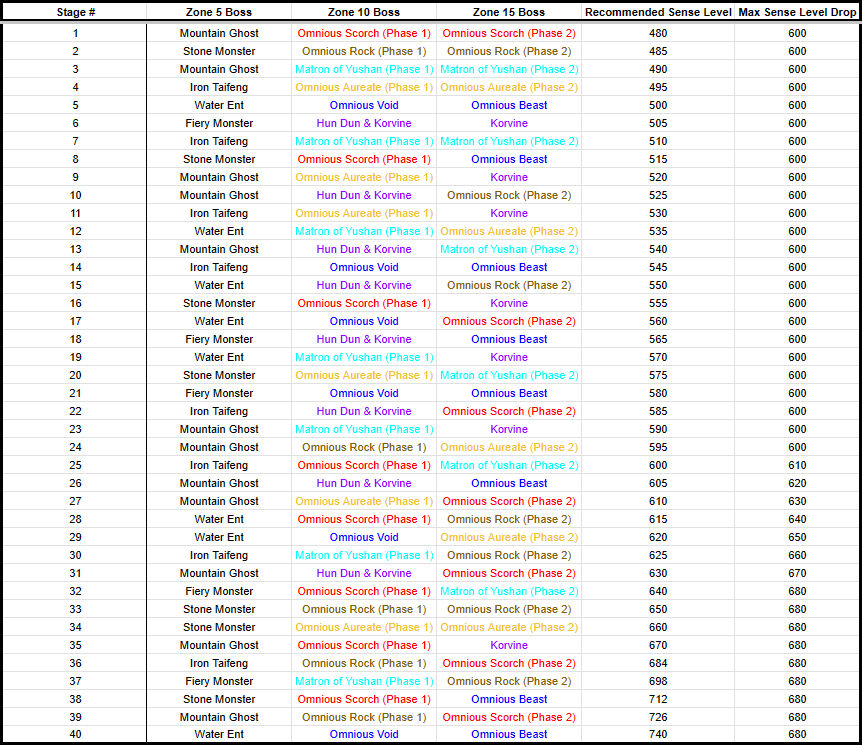
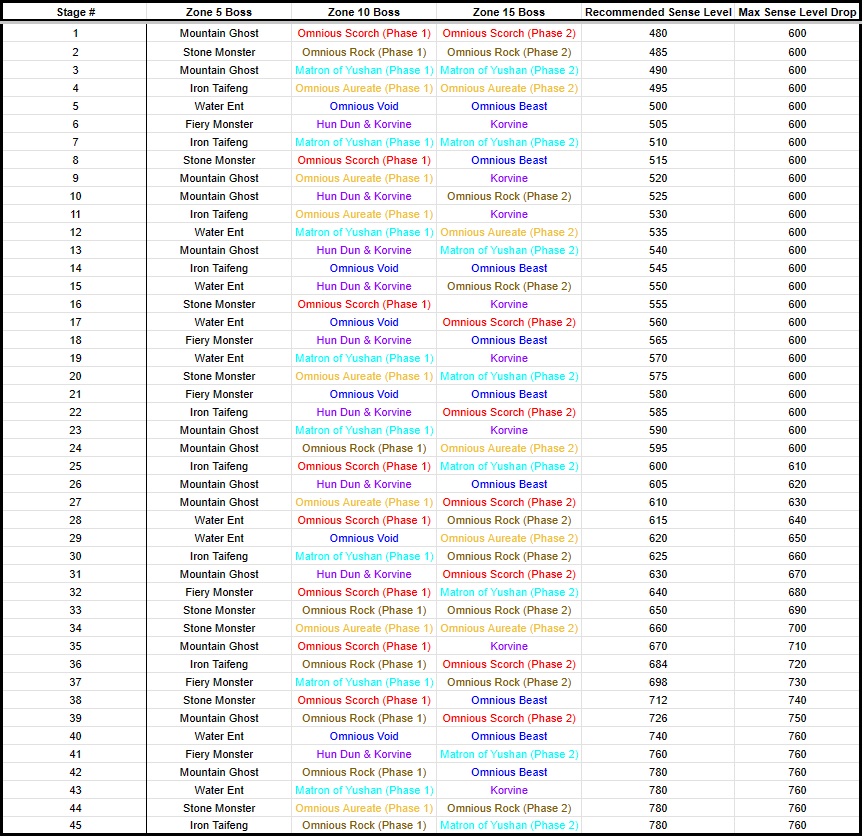
Updated Yama's Abyss Main Stages' Info

Changed region(s): [[0.0, 0.0, 1.0, 1.0]]

diff --git a/endgame.html b/endgame.html
@@ -265,14 +265,17 @@
 						Therefore, it is recommended to seek out Anima Rings in the Awakening Collection instead when that Omen is present.
 						Due to this, it can lead to some Stages being significantly harder or easier than other ones.
 						<h4>Later Stages</h4>
-						<p class="left">Around Stage 35, clearing Yama's Abyss becomes more influenced by how lucky you are rather than your skill level.
+						<p class="left">Above Stage 40, clearing Yama's Abyss becomes more influenced by how lucky you are rather than your skill level.
 						So don't feel too bad about it if you're unable to clear it within the first few tries.
 						A strategy that many use in the later stages is to run it as a Trio and feed all of their money to whoever is lucky enough to get the right Anima Rings and Souljade combinations.
 						Successive Ice Blast or Thunderpull + Thunder Counter are heavily recommended to clear these later stages as they provide a significant boost to element damage.
 						If seeking a Thunderbolt based build in place of Element, then Souljades like Stormstride, Stormstride Sword and Thunder Sword are handy.</p>
-						<h4 id="yamas-omens">Omen Effects</h4>
+						<h4 id="yama-omens">Omen Effects</h4>
 						<p class="center caption">The following are the effects of Omens that affect your damage output:</p>
 						<img src="img/endgame/yamas/omens.png" alt="List of All Omens Affecting Player Damage" class="large-example">
+						<h4 id="yama-bosses">Stage Bosses</h4>
+						<p>Here is a table of the bosses for each Main Stage along with their Recommended Sense Level and Max Drop Level:</p>
+						<img src="img/endgame/yamas/stages.png" alt="List of All Main Stages Info" class="large-example">
 					</p>
 					<hr id="void-space"><h3>Void Space</h3>
 					<p class="left">

diff --git a/changelog.html b/changelog.html
@@ -66,6 +66,15 @@
 					</tr>
 				</thead>
 				<tbody>
+					<!-- Version 1.2.6 -->
+					<tr>
+						<td class="date">April 9, 2024</td>
+						<td class="version">1.2.6</td>
+						<td class="details">
+							<p class="left">- Updated Yama's Abyss Omens Effects & Added Yama's Abyss Bosses section. 
+							</p>
+						</td>
+					</tr>
 					<!-- Version 1.2.5.1 -->
 					<tr>
 						<td class="date">April 6, 2024</td>
